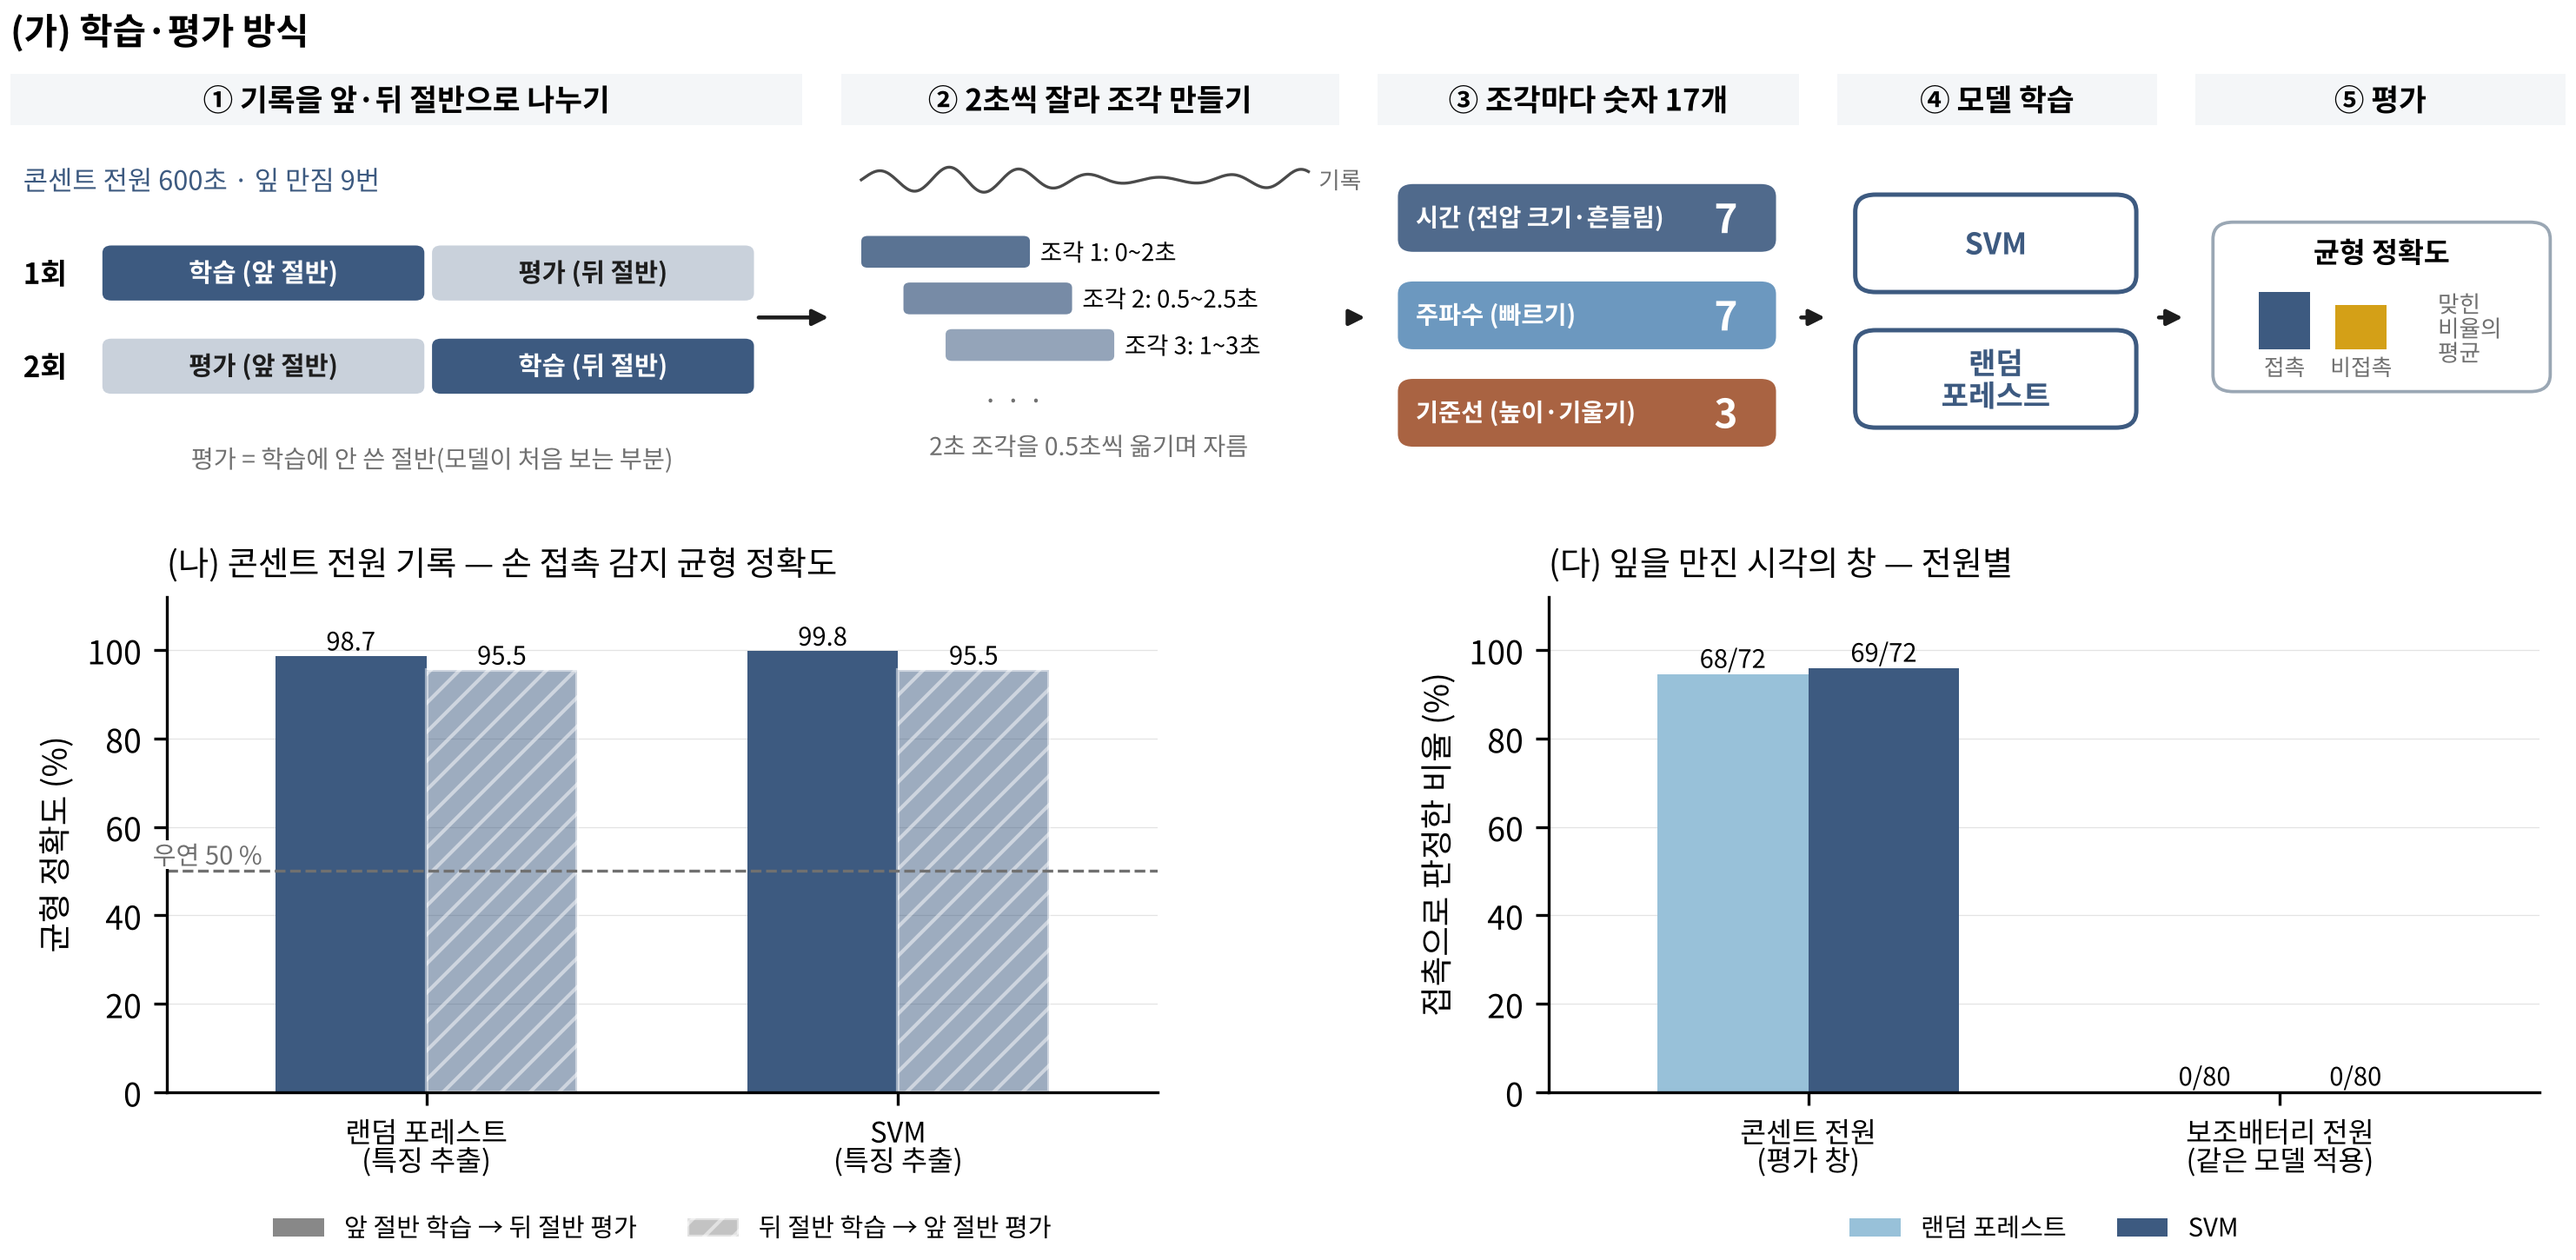
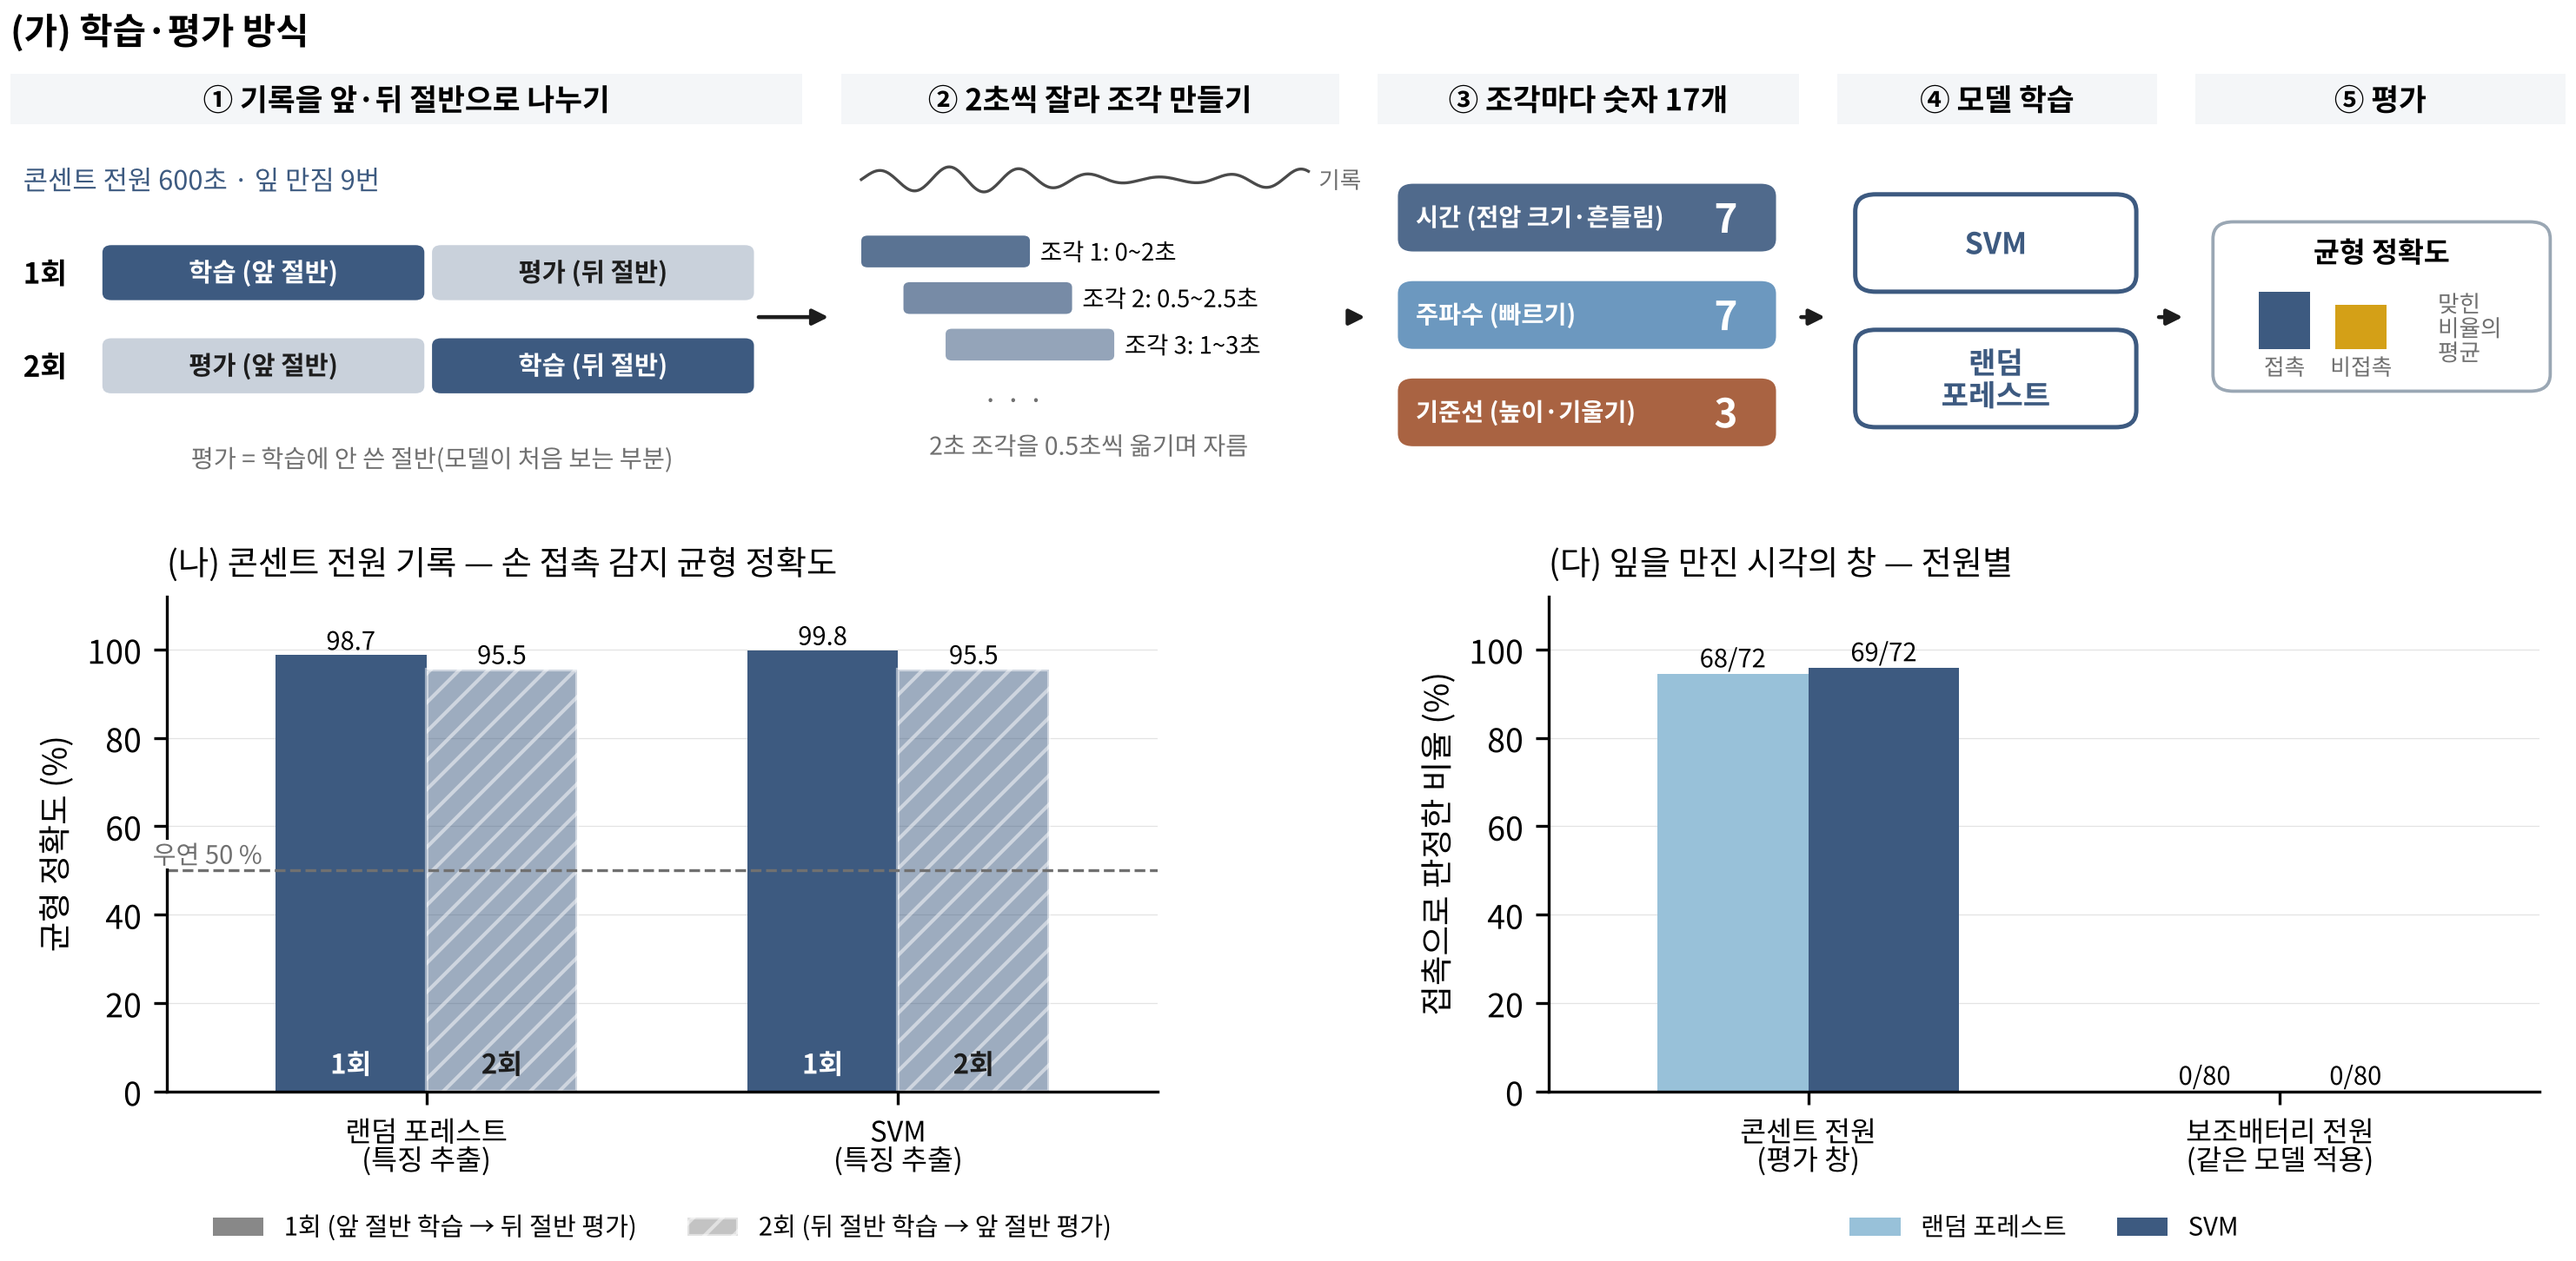
그림6 (나): 막대·범례를 1회·2회로 표시
Claude-Session: https://claude.ai/code/session_01JhQkgfdzNkTpKPSBfVdw6o

diff --git a/report/stim/fig_ml_eval.py b/report/stim/fig_ml_eval.py
@@ -82,11 +82,13 @@ r1 = b.bar(xs - w / 2, fwd, w, color=M1)
 r2 = b.bar(xs + w / 2, bwd, w, color=M1, alpha=0.5, hatch="///", edgecolor="white")
 for r in list(r1) + list(r2):
     b.text(r.get_x() + r.get_width() / 2, r.get_height() + 1.2, f"{r.get_height():g}", ha="center", fontsize=7)
+for r, t_ in [(x_, "1회") for x_ in r1] + [(x_, "2회") for x_ in r2]:
+    b.text(r.get_x() + r.get_width() / 2, 4, t_, ha="center", fontsize=7.5, color="white" if t_ == "1회" else INK, fontweight="bold")
 b.axhline(50, color=GRAY, ls="--", lw=0.8); b.text(-0.58, 51.5, "우연 50 %", ha="left", fontsize=7, color=GRAY, bbox=dict(fc="white", ec="none", pad=0.5))
 b.set_xticks(xs); b.set_xticklabels(labs, fontsize=7.8); b.set_ylim(0, 112); b.set_xlim(-0.55, 1.55); b.set_ylabel("균형 정확도 (%)")
 b.set_title("(나) 콘센트 전원 기록 — 손 접촉 감지 균형 정확도", loc="left", fontsize=9.2)
 from matplotlib.patches import Patch
-b.legend(handles=[Patch(fc="#888888", label="앞 절반 학습 → 뒤 절반 평가"), Patch(fc="#888888", alpha=0.5, hatch="///", ec="white", label="뒤 절반 학습 → 앞 절반 평가")],
+b.legend(handles=[Patch(fc="#888888", label="1회 (앞 절반 학습 → 뒤 절반 평가)"), Patch(fc="#888888", alpha=0.5, hatch="///", ec="white", label="2회 (뒤 절반 학습 → 앞 절반 평가)")],
          fontsize=7, loc="upper center", bbox_to_anchor=(0.5, -0.2), ncol=2, frameon=False)
 # (다) 전원별: 잎 만진 창을 접촉으로 판정한 비율(콘센트 = 평가 두 방향 합, 배터리 = 콘센트 전체로 학습한 모델 적용)
 c = fig.add_axes([0.60, 0.16, 0.38, 0.38])
